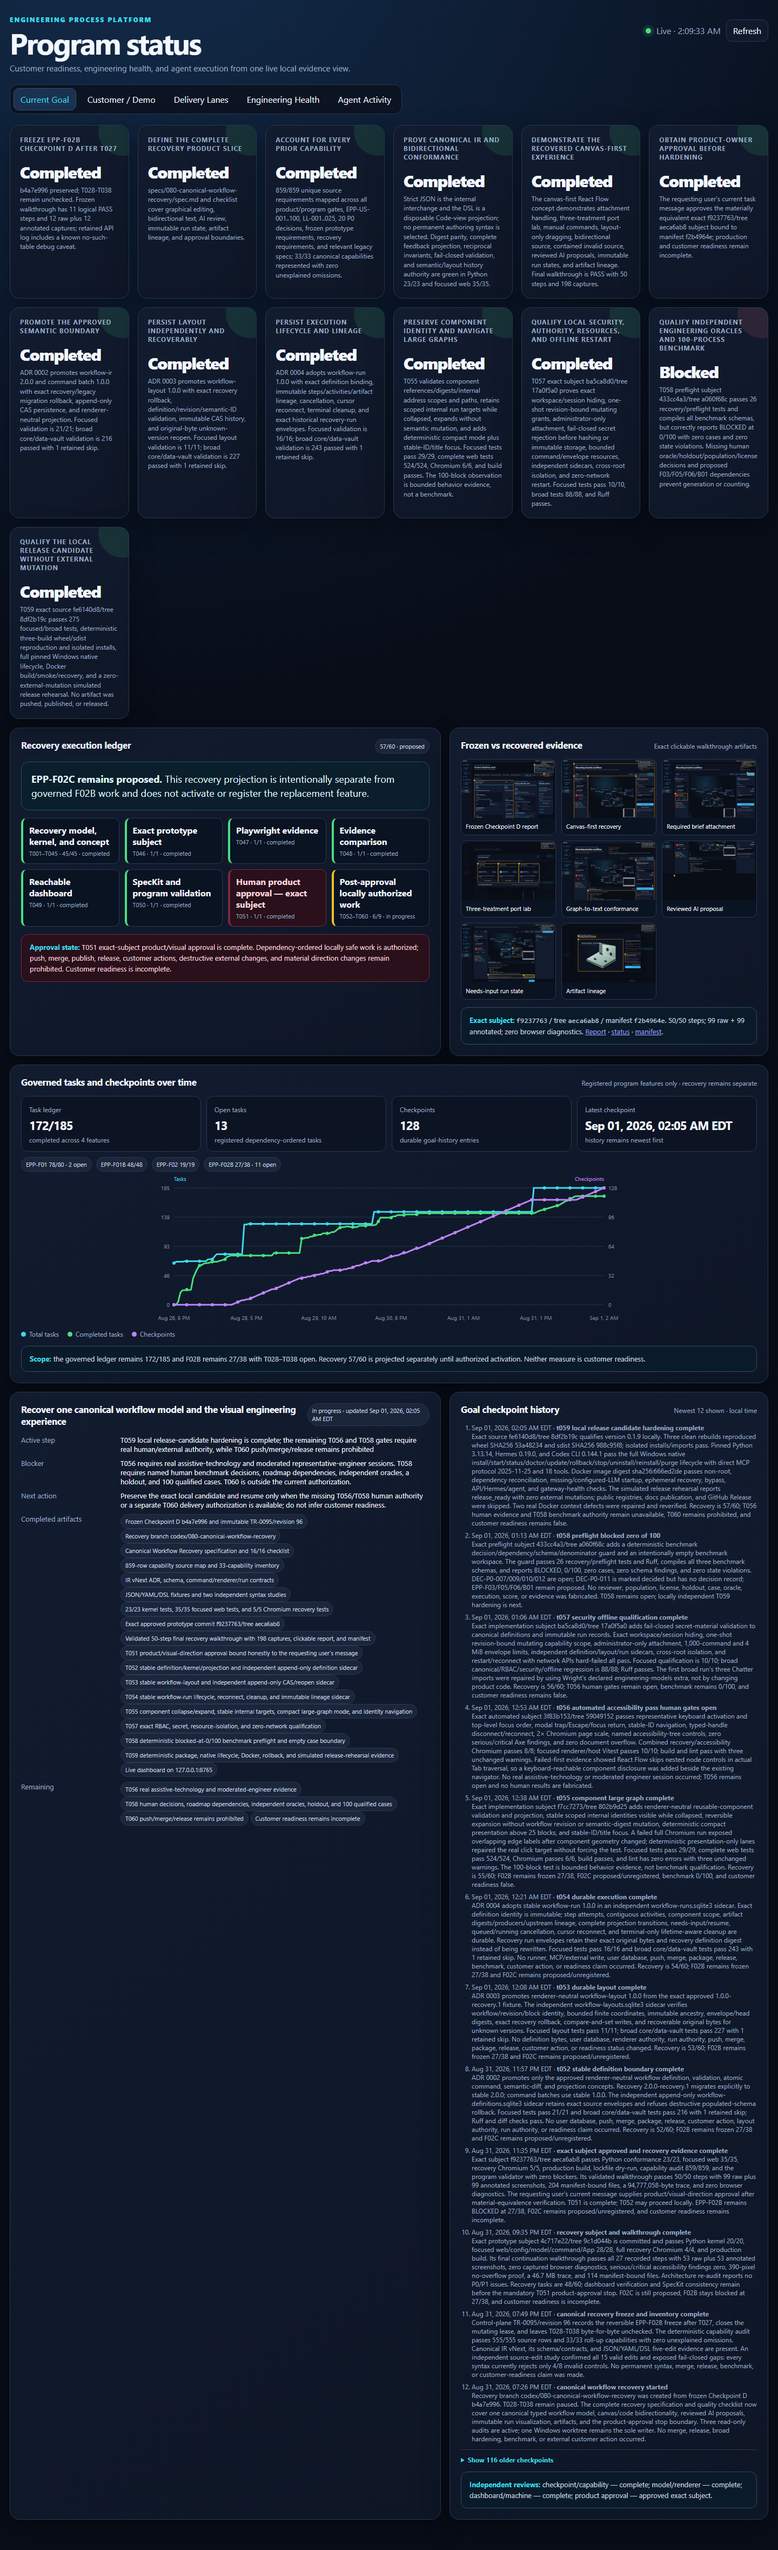
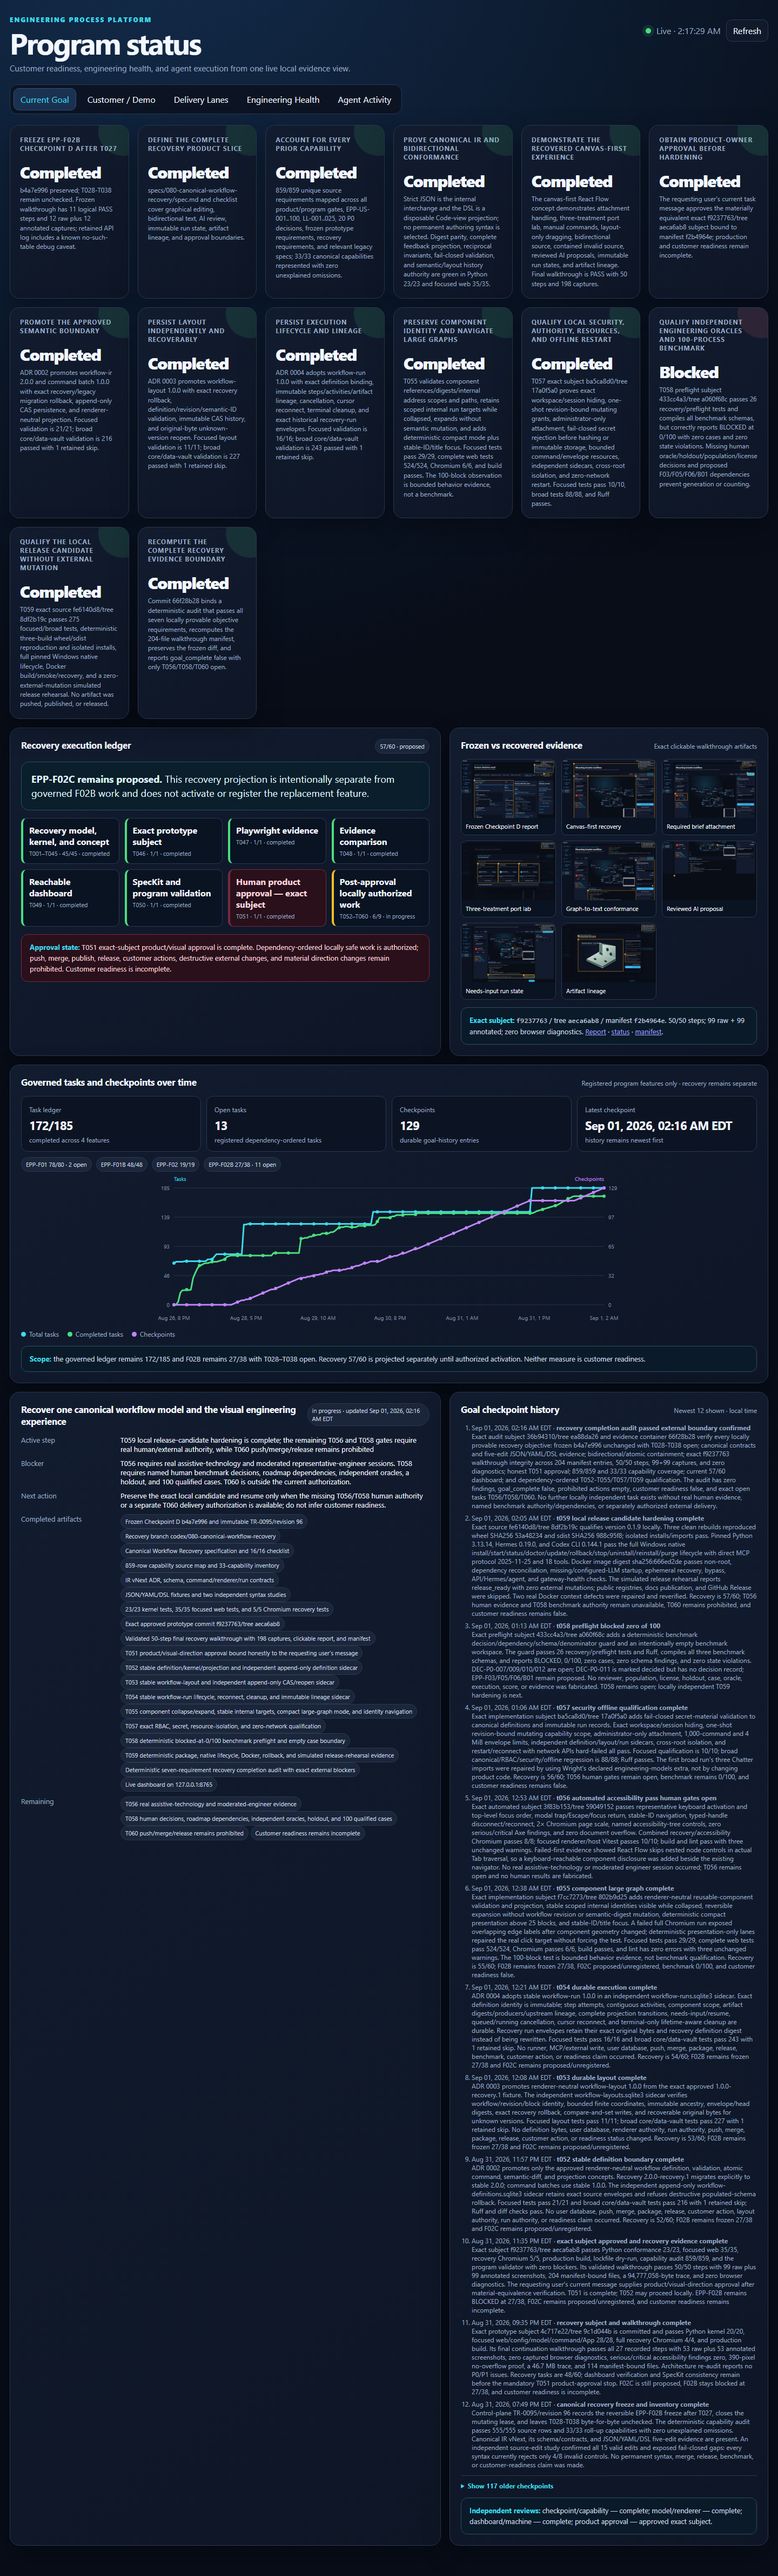
docs(dashboard): record recovery completion boundary

diff --git a/specs/080-canonical-workflow-recovery/evidence/recovery-completion-audit.md b/specs/080-canonical-workflow-recovery/evidence/recovery-completion-audit.md
@@ -51,3 +51,9 @@ walkthrough files and no local integrity findings.
 The pre-existing untracked `.tmp-pytest-program/` path is disclosed by the audit
 and is not used as evidence, staged, altered, or represented as part of the
 committed recovery checkpoint.
+
+The dashboard was refreshed to this completion-audit checkpoint and verified at
+`2026-09-01T06:17:33.199Z`. Desktop and 390 px mobile document overflow are zero,
+all eight evidence images load, browser diagnostics are empty, evidence routes
+return HTTP 200, traversal probes return HTTP 403, the API ledger is 57/60, the
+exact T051 subject remains bound, and `customerReady` remains false.
